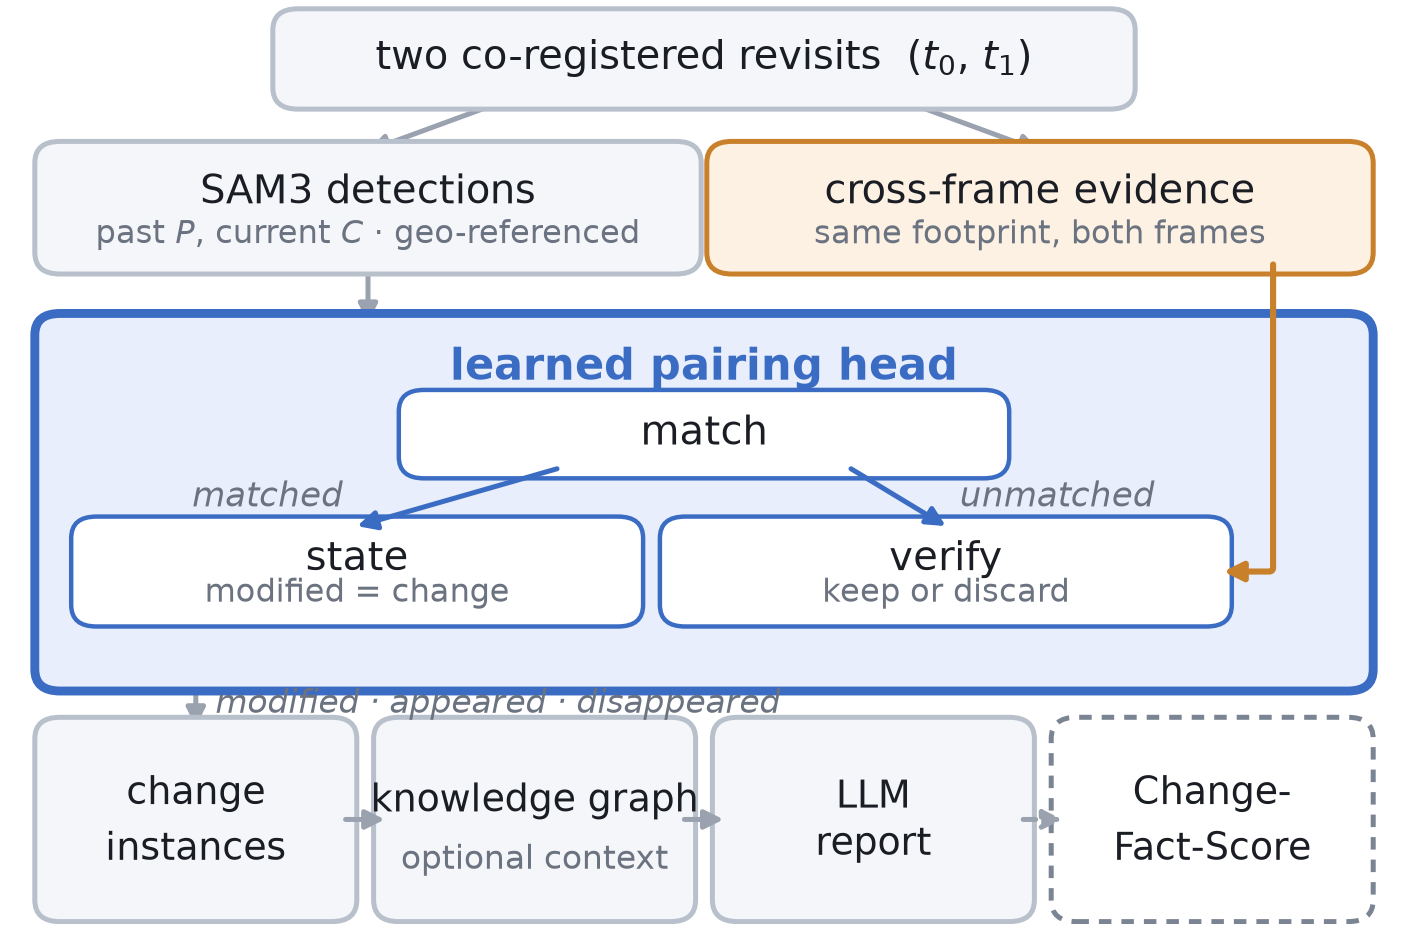
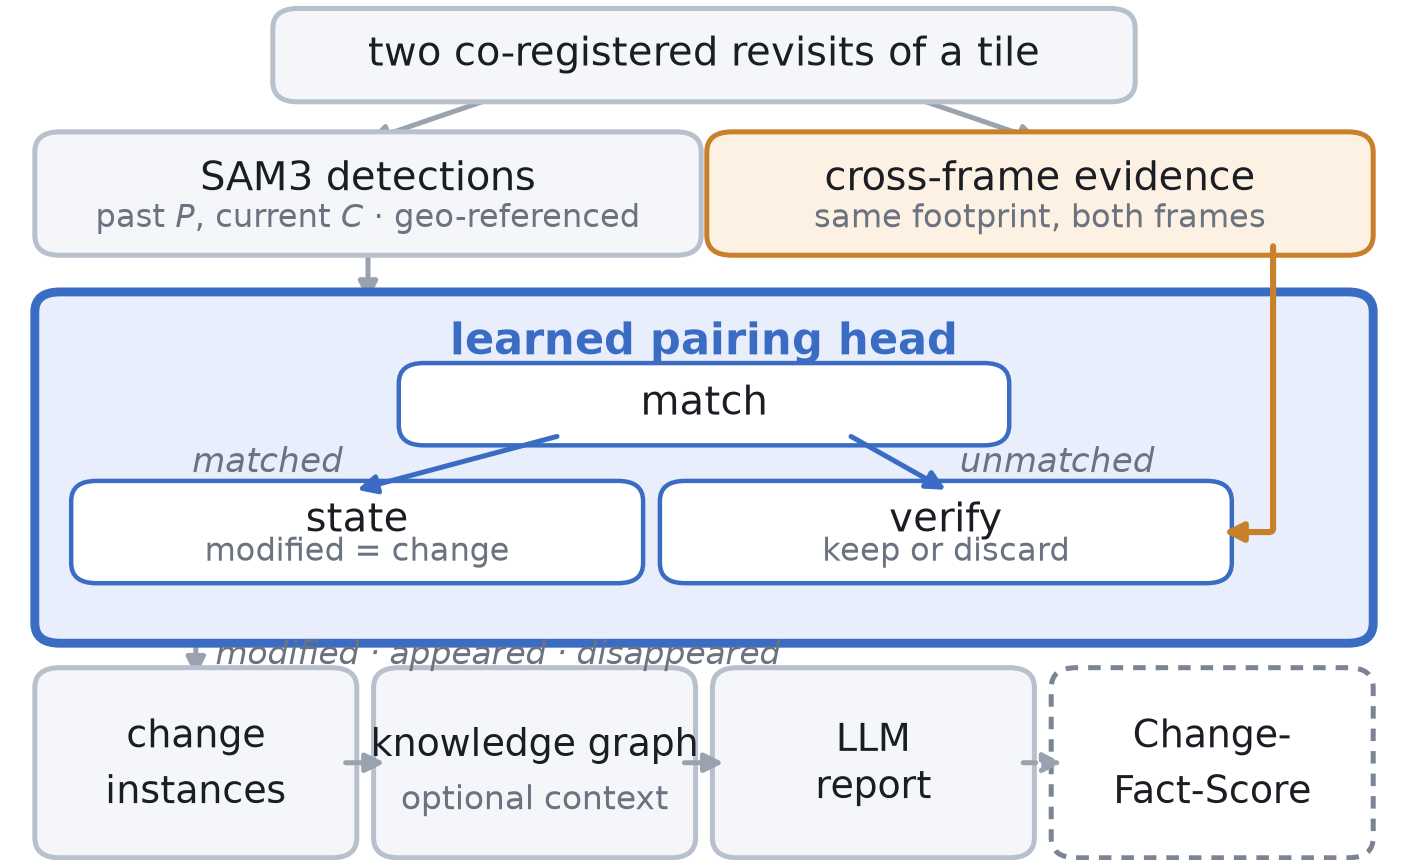
Drop notation the figure invented, and state the co-registration assumption
The figure labelled its input "two co-registered revisits ($t_0$, $t_1$)".
Grepping the sections shows $t_0$ and $t_1$ appear nowhere else in the paper:
the figure was the only place that notation existed, introduced and then
abandoned. The detections box already separates the frames as past $P$ and
current $C$, which method.tex does define, so the subscripts are gone.

"Co-registered" itself does appear in the body, but exactly once, as an
adjective in the opening sentence of the method, and the paper never says it
is an assumption. It is a load-bearing one: cross_frame.pixel_features crops
the *same bounding box* from both images, so the whole cross-frame
contribution -- worth 4.71 pixel F1 on LEVIR-CD -- silently depends on the two
acquisitions being aligned. Both benchmarks ship registered pairs, which is
why nothing broke, but a deployed service would need a registration stage and
the head's tolerance to residual misregistration is untested. That is now a
limitation rather than a hidden premise.

The added paragraph cost a seventh page, so the figure caption was cut from
five lines to three -- with the head's routing now drawn, the caption no
longer has to narrate it -- and the figure trimmed from 2.31 to 2.15 inches.

Six pages, no undefined references, no overfull boxes, 22 tests passing.

diff --git a/paper/sections/method.tex b/paper/sections/method.tex
@@ -3,11 +3,9 @@
 \begin{figure}[t]
 \centering
 \includegraphics[width=\columnwidth]{../docs/method_figure.pdf}
-\caption{Pipeline. The figure shows the routing; two things it cannot show are
-that only the stationary/moved distinction in the state branch is unverifiable
-under binary benchmark labels --- its modified output is scored like any other
-change instance --- and that the graph supplies context to one of the grounding
-conditions compared, not to all of them.}
+\caption{Pipeline. The state branch's modified output is scored like any other
+change instance; only its stationary/moved distinction is unverifiable under
+binary labels. The graph feeds one grounding condition, not all.}
 \label{fig:architecture}
 \end{figure}
 

diff --git a/paper/sections/discussion.tex b/paper/sections/discussion.tex
@@ -41,6 +41,10 @@ exactly two timepoints, so what we exercise is spatial aggregation over the
 crops of one tile, not history over time. The design's main hypothesis is
 therefore not evaluated here.
 
+\textbf{Co-registration is assumed.} Cross-frame evidence compares the same
+footprint in both acquisitions, so misregistration degrades it; both
+benchmarks ship registered pairs and the tolerance is untested.
+
 \textbf{Claim extraction is rule-based and not independently validated.} This
 is what keeps a language model out of the metric, but the extractor sees only
 the direction cues, object classes and quantifiers it encodes, and is tuned to

diff --git a/scripts/gen_paper_figure.py b/scripts/gen_paper_figure.py
@@ -55,7 +55,7 @@ EDGE_EVID = "#c8802a"
 FILL_EVAL = "#ffffff"
 EDGE_EVAL = "#7a8492"
 
-FIG_W, FIG_H = 3.5, 2.30
+FIG_W, FIG_H = 3.5, 2.14
 
 
 
@@ -110,7 +110,7 @@ def build() -> None:
     # ---- input ------------------------------------------------------------
     y_in, h_in = 0.895, 0.068
     box(ax, 0.20, y_in, 0.60, h_in,
-        "two co-registered revisits  ($t_0$, $t_1$)", fs=7.2)
+        "two co-registered revisits of a tile", fs=7.2)
 
     # ---- detections and cross-frame evidence ------------------------------
     y_f, h_f = 0.757, 0.095
